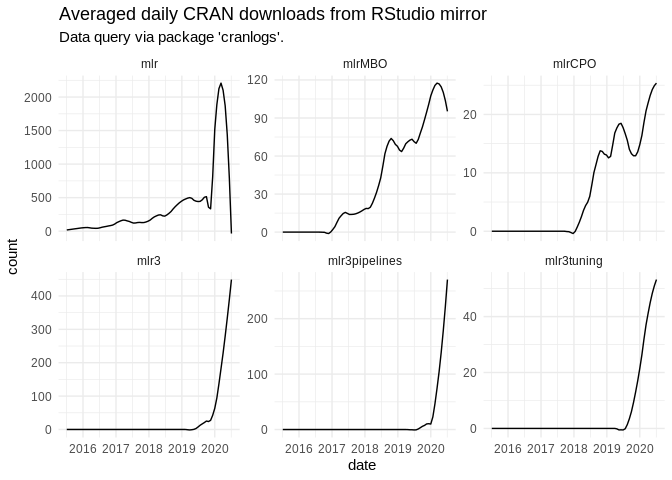
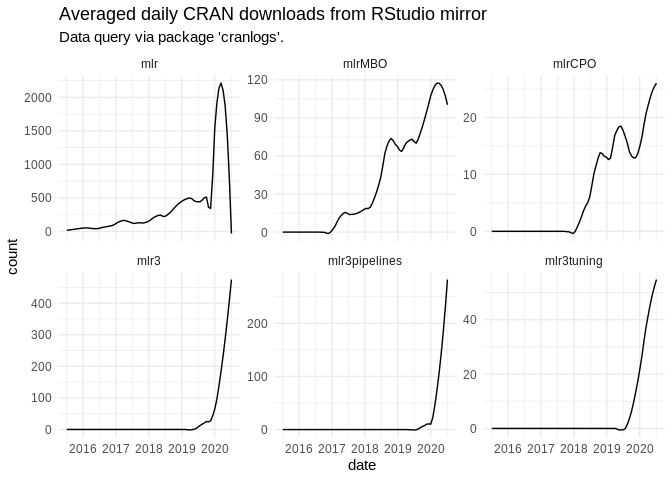
Deploy from Travis build 249 [ci skip]
Build URL: https://travis-ci.org/mlr-org/mlrcranlog/builds/705248759
Commit: ce6e1f61a254b96e964c975f316df6cf40a23561

diff --git a/README.md b/README.md
@@ -9,7 +9,7 @@
 
 Created on
 
-    ## [1] "2020-07-05"
+    ## [1] "2020-07-06"
 
 <details>
 
